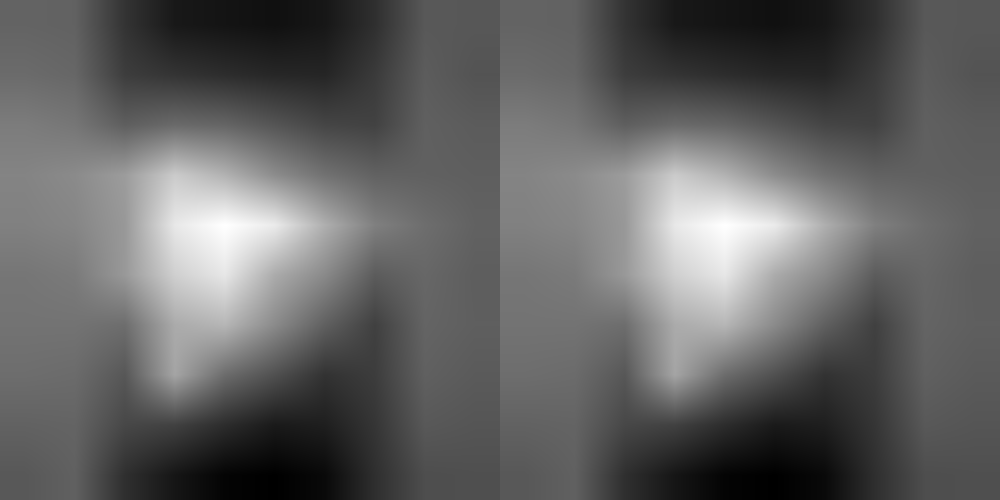
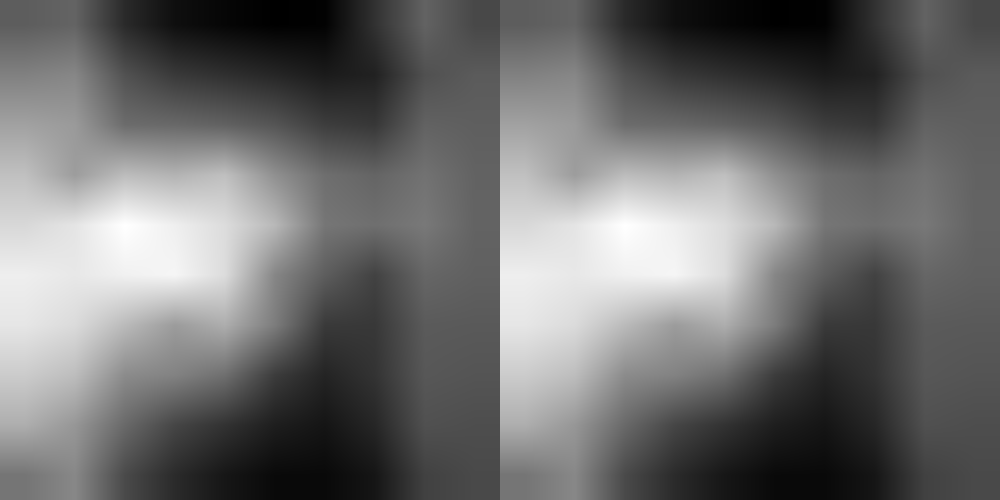
convergence

diff --git a/Python/vin/train.py b/Python/vin/train.py
@@ -127,7 +127,8 @@ if __name__ == '__main__':
     trainloader = torch.utils.data.DataLoader(trainset, batch_size=config.batch_size, shuffle=True, num_workers=0)
     testloader = torch.utils.data.DataLoader(trainset, batch_size=1, shuffle=True, num_workers=0) #use trainset shit, overfit
     criterion = nn.MSELoss()
-    optimizer = torch.optim.SGD(net.parameters(), lr = config.lr, momentum=0.9)
+    #optimizer = torch.optim.SGD(net.parameters(), lr = config.lr, momentum=0.9)
+    optimizer = torch.optim.Adam(net.parameters(), lr = config.lr, betas=(0.9,0.999),eps=1e-08,weight_decay=0) #converges better
     train(net, trainloader, config, criterion, optimizer, use_GPU)
     test(net, testloader, config, use_GPU)
 
